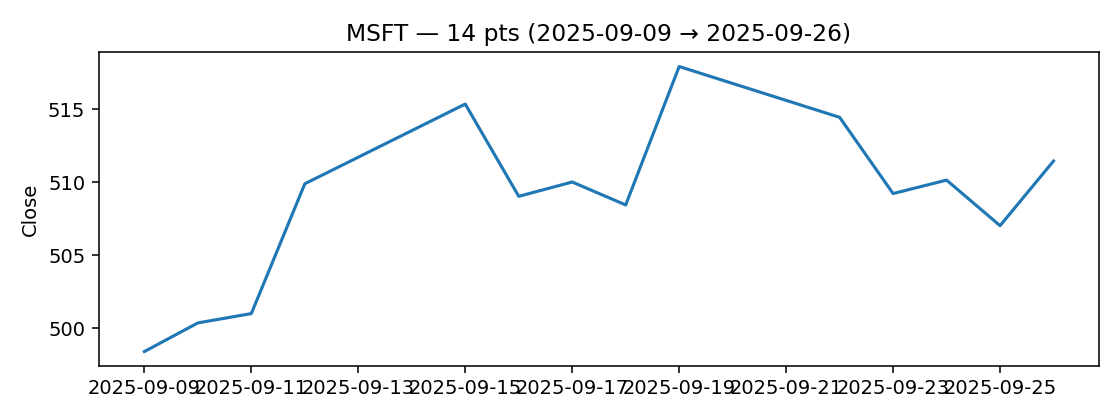
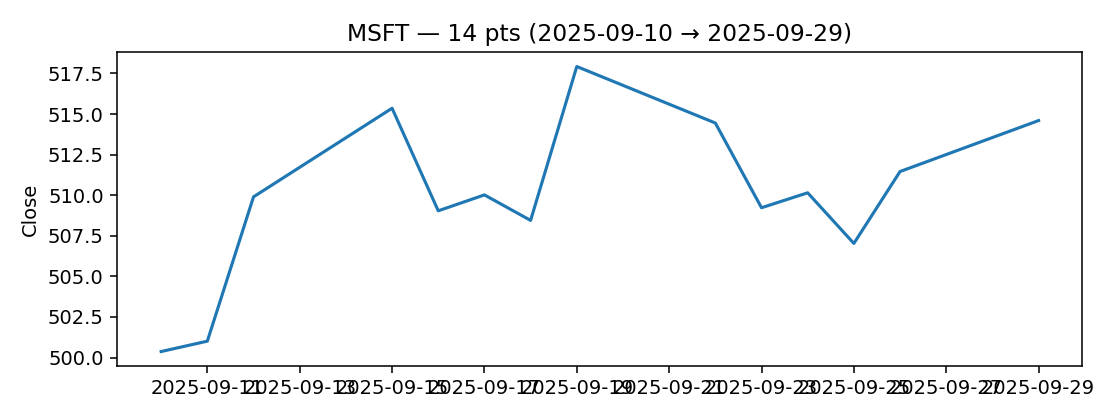
chore: update daily report 2025-09-30 08:09

diff --git a/docs/daily_report.html b/docs/daily_report.html
@@ -108,7 +108,7 @@
   <header>
     <div>
       <h1>Daily Study & News Companion</h1>
-      <div class="sub">2025-09-29 08:14 · TZ: CST</div>
+      <div class="sub">2025-09-30 08:08 · TZ: CST</div>
     </div>
     <button class="btn" id="themeBtn">🌓 Tema</button>
   </header>
@@ -150,11 +150,11 @@
           </div>
           <div class="mkt-body">
             <div class="metrics-row">
-          <div class="kv"><span>Last</span><b>219.78</b></div>
-          <div class="kv"><span>d/d</span><b class="down">-7.75%</b></div>
+          <div class="kv"><span>Last</span><b>222.17</b></div>
+          <div class="kv"><span>d/d</span><b class="down">-3.54%</b></div>
           <div class="kv"><span>Mín</span><b>218.15</b></div>
-          <div class="kv"><span>Máx</span><b>238.24</b></div>
-          <div class="kv"><span>σ</span><b>5.83</b></div>
+          <div class="kv"><span>Máx</span><b>234.05</b></div>
+          <div class="kv"><span>σ</span><b>5.27</b></div>
         </div>
             <div class="chart"><img src="charts/AMZN_close.png" alt="AMZN chart" loading="lazy"/></div>
           </div>
@@ -167,11 +167,11 @@
           </div>
           <div class="mkt-body">
             <div class="metrics-row">
-          <div class="kv"><span>Last</span><b>511.46</b></div>
-          <div class="kv"><span>d/d</span><b class="up">2.62%</b></div>
-          <div class="kv"><span>Mín</span><b>498.41</b></div>
+          <div class="kv"><span>Last</span><b>514.60</b></div>
+          <div class="kv"><span>d/d</span><b class="up">2.84%</b></div>
+          <div class="kv"><span>Mín</span><b>500.37</b></div>
           <div class="kv"><span>Máx</span><b>517.93</b></div>
-          <div class="kv"><span>σ</span><b>5.43</b></div>
+          <div class="kv"><span>σ</span><b>4.79</b></div>
         </div>
             <div class="chart"><img src="charts/MSFT_close.png" alt="MSFT chart" loading="lazy"/></div>
           </div>
@@ -184,11 +184,11 @@
           </div>
           <div class="mkt-body">
             <div class="metrics-row">
-          <div class="kv"><span>Last</span><b>178.19</b></div>
-          <div class="kv"><span>d/d</span><b class="up">4.35%</b></div>
+          <div class="kv"><span>Last</span><b>181.85</b></div>
+          <div class="kv"><span>d/d</span><b class="up">2.55%</b></div>
           <div class="kv"><span>Mín</span><b>170.29</b></div>
           <div class="kv"><span>Máx</span><b>183.61</b></div>
-          <div class="kv"><span>σ</span><b>3.13</b></div>
+          <div class="kv"><span>σ</span><b>2.92</b></div>
         </div>
             <div class="chart"><img src="charts/NVDA_close.png" alt="NVDA chart" loading="lazy"/></div>
           </div>
@@ -201,11 +201,11 @@
           </div>
           <div class="mkt-body">
             <div class="metrics-row">
-          <div class="kv"><span>Last</span><b>440.40</b></div>
-          <div class="kv"><span>d/d</span><b class="up">26.93%</b></div>
-          <div class="kv"><span>Mín</span><b>346.97</b></div>
-          <div class="kv"><span>Máx</span><b>442.79</b></div>
-          <div class="kv"><span>σ</span><b>30.97</b></div>
+          <div class="kv"><span>Last</span><b>443.21</b></div>
+          <div class="kv"><span>d/d</span><b class="up">27.44%</b></div>
+          <div class="kv"><span>Mín</span><b>347.79</b></div>
+          <div class="kv"><span>Máx</span><b>443.21</b></div>
+          <div class="kv"><span>σ</span><b>26.84</b></div>
         </div>
             <div class="chart"><img src="charts/TSLA_close.png" alt="TSLA chart" loading="lazy"/></div>
           </div>
@@ -218,11 +218,11 @@
           </div>
           <div class="mkt-body">
             <div class="metrics-row">
-          <div class="kv"><span>Last</span><b>661.82</b></div>
-          <div class="kv"><span>d/d</span><b class="up">1.77%</b></div>
-          <div class="kv"><span>Mín</span><b>650.33</b></div>
+          <div class="kv"><span>Last</span><b>663.68</b></div>
+          <div class="kv"><span>d/d</span><b class="up">1.76%</b></div>
+          <div class="kv"><span>Mín</span><b>652.21</b></div>
           <div class="kv"><span>Máx</span><b>666.84</b></div>
-          <div class="kv"><span>σ</span><b>4.23</b></div>
+          <div class="kv"><span>σ</span><b>3.46</b></div>
         </div>
             <div class="chart"><img src="charts/^GSPC_close.png" alt="^GSPC chart" loading="lazy"/></div>
           </div>
@@ -250,38 +250,38 @@
             <ul class="news-list">
               <li class="news-item" data-topic="AI">
                 <span class="dot"></span>
-                <a href="https://www.bloomberg.com/news/articles/2025-09-29/netanyahu-discusses-ai-in-private-meeting-with-tech-investors" target="_blank" rel="noreferrer">Netanyahu Discusses AI in Private Meeting With Tech Investors</a>
-                <div class="meta">2025-09-29 12:45 · <span class="src">Annmarie Hordern, Edward Ludlow</span></div>
+                <a href="https://www.bloomberg.com/news/articles/2025-09-30/alphabet-s-ai-strength-fuels-biggest-quarterly-jump-since-2005" target="_blank" rel="noreferrer">Alphabet’s AI Strength Fuels Biggest Quarterly Jump Since 2005</a>
+                <div class="meta">2025-09-30 13:46 · <span class="src">Ryan Vlastelica</span></div>
               </li>
             
               <li class="news-item" data-topic="AI">
                 <span class="dot"></span>
-                <a href="https://www.bloomberg.com/news/articles/2025-09-29/deepseek-debuts-sparse-attention-method-in-next-gen-ai-model" target="_blank" rel="noreferrer">DeepSeek Debuts ‘Sparse Attention’ Method in Next-Gen AI Model</a>
+                <a href="https://www.bloomberg.com/news/articles/2025-09-30/ai-computing-chip-startup-cerebras-systems-raises-1-1-billion" target="_blank" rel="noreferrer">AI Computing, Chip Startup Cerebras Systems Raises $1.1 Billion</a>
+                <div class="meta">2025-09-30 13:00 · <span class="src">Ian King</span></div>
+              </li>
+            
+              <li class="news-item" data-topic="AI">
+                <span class="dot"></span>
+                <a href="https://www.ft.com/content/908dc05b-5fcd-456a-88a3-eba1f77d3ffd" target="_blank" rel="noreferrer">OpenAI’s era-defining money furnace</a>
+                <div class="meta">2025-09-30 11:54 · <span class="src">www.ft.com</span></div>
+              </li>
+            
+              <li class="news-item" data-topic="AI">
+                <span class="dot"></span>
+                <a href="https://www.bloomberg.com/news/articles/2025-09-29/stripe-joins-with-openai-to-allow-purchases-with-chatgpt" target="_blank" rel="noreferrer">Stripe Joins With OpenAI to Allow Etsy Purchases Via ChatGPT</a>
+                <div class="meta">2025-09-29 19:10 · <span class="src">Emily Mason</span></div>
+              </li>
+            
+              <li class="news-item" data-topic="AI">
+                <span class="dot"></span>
+                <a href="https://www.bloomberg.com/news/articles/2025-09-29/deepseek-debuts-sparse-attention-method-in-next-gen-ai-model" target="_blank" rel="noreferrer">DeepSeek Debuts ‘Sparse Attention’ Next-Generation AI Model</a>
                 <div class="meta">2025-09-29 11:54 · <span class="src">Saritha Rai</span></div>
               </li>
             
               <li class="news-item" data-topic="AI">
                 <span class="dot"></span>
-                <a href="https://www.bloomberg.com/news/articles/2025-09-29/ai-investments-blue-owl-xai-deals-solidify-qia-s-500-billion-us-pledge" target="_blank" rel="noreferrer">Blue Owl, xAI Deals Solidify Qatar Fund’s $500 Billion US Pledge</a>
-                <div class="meta">2025-09-29 11:08 · <span class="src">Dinesh Nair, Abeer Abu Omar</span></div>
-              </li>
-            
-              <li class="news-item" data-topic="AI">
-                <span class="dot"></span>
-                <a href="https://www.bloomberg.com/news/newsletters/2025-09-29/openai-floats-the-promise-of-a-more-useful-personal-ai" target="_blank" rel="noreferrer">OpenAI Floats the Promise of a More Useful Personal AI</a>
-                <div class="meta">2025-09-29 11:03 · <span class="src">Austin Carr</span></div>
-              </li>
-            
-              <li class="news-item" data-topic="AI">
-                <span class="dot"></span>
-                <a href="https://www.bloomberg.com/news/articles/2025-09-29/openai-launches-parental-controls-for-chatgpt-after-teen-s-death" target="_blank" rel="noreferrer">OpenAI Launches Parental Controls for ChatGPT After Teen’s Death</a>
-                <div class="meta">2025-09-29 10:08 · <span class="src">Rachel Metz</span></div>
-              </li>
-            
-              <li class="news-item" data-topic="AI">
-                <span class="dot"></span>
-                <a href="https://www.bloomberg.com/news/articles/2025-09-28/magnificent-7-is-passe-this-group-of-ai-stocks-can-replace-it" target="_blank" rel="noreferrer">Magnificent 7 Is Passe. This Group of AI Stocks Can Replace It</a>
-                <div class="meta">2025-09-28 13:00 · <span class="src">Ryan Vlastelica</span></div>
+                <a href="https://www.bloomberg.com/news/articles/2025-09-29/huawei-to-double-output-of-top-ai-chip-as-nvidia-wavers-in-china" target="_blank" rel="noreferrer">Huawei to Double Output of AI Chip as Nvidia Wavers in China</a>
+                <div class="meta">2025-09-29 09:46 · <span class="src">Yuan Gao</span></div>
               </li>
             </ul>
           </div>
@@ -291,38 +291,38 @@
             <ul class="news-list">
               <li class="news-item" data-topic="Fintech">
                 <span class="dot"></span>
-                <a href="https://www.bloomberg.com/news/videos/2025-09-29/fed-s-waller-says-technology-can-deliver-payment-choices" target="_blank" rel="noreferrer">Fed’s Waller Says Technology Can Deliver Payment Choices</a>
-                <div class="meta">2025-09-29 14:02 · <span class="src">www.bloomberg.com</span></div>
+                <a href="https://www.bloomberg.com/news/articles/2025-09-30/santander-head-of-us-real-estate-investment-banking-set-to-exit" target="_blank" rel="noreferrer">Santander Head of US Real Estate Investment Banking Set to Exit</a>
+                <div class="meta">2025-09-30 13:38 · <span class="src">Rodrigo Orihuela, Jorge Zuloaga</span></div>
               </li>
             
               <li class="news-item" data-topic="Fintech">
                 <span class="dot"></span>
-                <a href="https://www.bloomberg.com/news/articles/2025-09-29/ethiopia-bondholders-begin-restricted-talks-to-restructure-debt" target="_blank" rel="noreferrer">Ethiopia, Bondholders Begin Restricted Talks to Restructure Debt</a>
-                <div class="meta">2025-09-29 13:16 · <span class="src">Jorgelina Do Rosario</span></div>
+                <a href="https://www.bloomberg.com/news/articles/2025-09-30/nordea-said-to-plan-srt-tied-to-1-7-billion-of-corporate-loans" target="_blank" rel="noreferrer">Nordea Said to Plan SRT Tied to €1.7 Billion of Loans</a>
+                <div class="meta">2025-09-30 13:14 · <span class="src">Esteban Duarte, Evelina Youcefi</span></div>
               </li>
             
               <li class="news-item" data-topic="Fintech">
                 <span class="dot"></span>
-                <a href="https://www.bloomberg.com/news/videos/2025-09-29/fed-s-hammack-is-concerned-about-inflation-expectations-video" target="_blank" rel="noreferrer">Fed’s Hammack Is Concerned About Inflation Expectations</a>
-                <div class="meta">2025-09-29 12:57 · <span class="src">www.bloomberg.com</span></div>
+                <a href="https://www.bloomberg.com/news/articles/2025-09-30/yuan-trading-surges-to-close-in-on-pound-as-fourth-biggest-currency" target="_blank" rel="noreferrer">Yuan Moves Closer to Replacing Pound as 4th Most-Traded Currency</a>
+                <div class="meta">2025-09-30 13:00 · <span class="src">Greg Ritchie</span></div>
               </li>
             
               <li class="news-item" data-topic="Fintech">
                 <span class="dot"></span>
-                <a href="https://www.bloomberg.com/news/articles/2025-09-29/france-most-likely-to-face-bond-crisis-deutsche-bank-poll-shows" target="_blank" rel="noreferrer">France Most Likely to Face Bond Crisis, Deutsche Bank Poll Shows</a>
-                <div class="meta">2025-09-29 12:48 · <span class="src">Alice Gledhill</span></div>
+                <a href="https://www.bloomberg.com/news/articles/2025-09-30/global-fx-trading-soars-to-9-6-trillion-amid-tariffs-bis-says" target="_blank" rel="noreferrer">Global FX Trading Soars to $9.6 Trillion Amid Tariffs, BIS Says</a>
+                <div class="meta">2025-09-30 13:00 · <span class="src">Greg Ritchie</span></div>
               </li>
             
               <li class="news-item" data-topic="Fintech">
                 <span class="dot"></span>
-                <a href="https://www.bloomberg.com/news/articles/2025-09-29/ecb-s-lane-says-inflation-outlook-is-reasonably-benign" target="_blank" rel="noreferrer">ECB’s Lane Says Inflation Outlook Is ‘Reasonably Benign’</a>
-                <div class="meta">2025-09-29 12:31 · <span class="src">Mark Schroers</span></div>
+                <a href="https://www.bloomberg.com/news/articles/2025-09-30/private-market-blowups-highlight-dangers-for-retail-investors" target="_blank" rel="noreferrer">Private Market Blowups Highlight Perils for Retail Investors</a>
+                <div class="meta">2025-09-30 13:00 · <span class="src">Steven Church, Sabrina Willmer</span></div>
               </li>
             
               <li class="news-item" data-topic="Fintech">
                 <span class="dot"></span>
-                <a href="https://www.bloomberg.com/news/articles/2025-09-29/fed-s-hammack-is-still-worried-about-outlook-for-us-inflation" target="_blank" rel="noreferrer">Fed’s Hammack Is Still Worried About Outlook for US Inflation</a>
-                <div class="meta">2025-09-29 08:48 · <span class="src">Craig Stirling, Jonnelle Marte</span></div>
+                <a href="https://www.bloomberg.com/news/articles/2025-09-30/japanese-rate-trading-surges-684-as-boj-hikes-revive-market" target="_blank" rel="noreferrer">Japanese Rate Trading Surges 684% as BOJ Hikes Revive Market</a>
+                <div class="meta">2025-09-30 13:00 · <span class="src">Greg Ritchie</span></div>
               </li>
             </ul>
           </div>
@@ -332,38 +332,38 @@
             <ul class="news-list">
               <li class="news-item" data-topic="General">
                 <span class="dot"></span>
-                <a href="https://www.bloomberg.com/news/articles/2025-09-29/dimensional-says-sec-intends-to-allow-its-dual-share-class-funds" target="_blank" rel="noreferrer">Dimensional Says SEC Intends to Allow Its Dual Share Class Funds</a>
-                <div class="meta">2025-09-29 13:49 · <span class="src">Emily Graffeo, Katie Greifeld</span></div>
+                <a href="https://www.bloomberg.com/news/articles/2025-09-30/ardian-s-french-retailer-prosol-said-to-draw-interest-from-cd-r" target="_blank" rel="noreferrer">Ardian’s French Retailer Prosol Said to Draw Interest from CD&amp;R</a>
+                <div class="meta">2025-09-30 13:48 · <span class="src">Pamela Barbaglia, Swetha Gopinath</span></div>
               </li>
             
               <li class="news-item" data-topic="General">
                 <span class="dot"></span>
-                <a href="https://www.bloomberg.com/news/articles/2025-09-29/canadian-gas-hits-sub-zero-as-lng-plant-hiccups-keep-supply-high" target="_blank" rel="noreferrer">Canadian Gas Hits Sub-Zero as LNG Plant Hiccups Keep Supply High</a>
-                <div class="meta">2025-09-29 13:38 · <span class="src">Robert Tuttle</span></div>
+                <a href="https://www.bloomberg.com/news/articles/2025-09-30/stocks-steady-as-shutdown-looms-coreweave-soars-on-deal-with-meta" target="_blank" rel="noreferrer">Stocks Steady as Shutdown Looms; CoreWeave Soars on Deal With Meta</a>
+                <div class="meta">2025-09-30 13:40 · <span class="src">Natalia Kniazhevich</span></div>
               </li>
             
               <li class="news-item" data-topic="General">
                 <span class="dot"></span>
-                <a href="https://www.bloomberg.com/news/articles/2025-09-29/flood-focused-neptune-s-ipo-joins-boom-in-niche-insurer-debuts" target="_blank" rel="noreferrer">Flood-Focused Neptune’s IPO Joins Boom in Niche Insurer Debuts</a>
-                <div class="meta">2025-09-29 13:38 · <span class="src">Anthony Hughes</span></div>
+                <a href="https://www.bloomberg.com/news/articles/2025-09-30/kuwait-egypt-get-over-29-billion-demand-for-dollar-bond-offers" target="_blank" rel="noreferrer">Kuwait and Egypt Get Over $29 Billion Demand for Dollar Bond Offers</a>
+                <div class="meta">2025-09-30 12:22 · <span class="src">Mirette Magdy, Srinivasan Sivabalan</span></div>
               </li>
             
               <li class="news-item" data-topic="General">
                 <span class="dot"></span>
-                <a href="https://www.bloomberg.com/news/articles/2025-09-29/beyond-meat-bynd-stock-sinks-on-convertible-debt-writedown-proposal" target="_blank" rel="noreferrer">Beyond Meat Stock Sinks to All-Time Low on Debt Swap Plan</a>
-                <div class="meta">2025-09-29 13:23 · <span class="src">Giulia Morpurgo, Dorothy Ma</span></div>
+                <a href="https://www.bloomberg.com/news/articles/2025-09-30/kuwait-starts-its-first-sale-of-dollar-bonds-in-eight-years" target="_blank" rel="noreferrer">Bids Top $27.7 billion in Kuwait’s First Eurobond Since 2017</a>
+                <div class="meta">2025-09-30 05:36 · <span class="src">Olga Voitova</span></div>
               </li>
             
               <li class="news-item" data-topic="General">
                 <span class="dot"></span>
-                <a href="https://www.bloomberg.com/news/articles/2025-09-29/ucb-shares-reach-fresh-record-after-rival-moonlake-s-trial-data" target="_blank" rel="noreferrer">UCB Soars to Record as Rival MoonLake Crashes on Trial Data</a>
-                <div class="meta">2025-09-29 08:50 · <span class="src">Lisa Pham</span></div>
+                <a href="https://www.bloomberg.com/news/articles/2025-09-29/stock-market-today-dow-s-p-live-updates" target="_blank" rel="noreferrer">Stocks Slip on Shutdown Worries; Oil Prices Drop: Markets Wrap</a>
+                <div class="meta">2025-09-29 22:35 · <span class="src">Rheaa Rao</span></div>
               </li>
             
               <li class="news-item" data-topic="General">
                 <span class="dot"></span>
-                <a href="https://www.bloomberg.com/news/articles/2025-09-28/oil-drops-as-opec-seen-increasing-output-again-markets-wrap" target="_blank" rel="noreferrer">US Stocks Climb Ahead of Key Jobs Data This Week: Markets Wrap</a>
-                <div class="meta">2025-09-28 22:34 · <span class="src">Rheaa Rao</span></div>
+                <a href="https://www.bloomberg.com/news/videos/2025-09-29/ceo-s-discuss-the-future-of-global-infrastructure-video" target="_blank" rel="noreferrer">Brookfield, Macquarie and GIP on Global Infrastructure</a>
+                <div class="meta">2025-09-29 14:38 · <span class="src">www.bloomberg.com</span></div>
               </li>
             </ul>
           </div>
@@ -373,38 +373,38 @@
             <ul class="news-list">
               <li class="news-item" data-topic="Machine Learning">
                 <span class="dot"></span>
-                <a href="https://www.bloomberg.com/news/articles/2025-09-29/treasuries-hold-gains-amid-oil-price-slump-with-month-end-ahead" target="_blank" rel="noreferrer">Treasuries Hold Gains Amid Oil Price Slump With Month-End Ahead</a>
-                <div class="meta">2025-09-29 13:11 · <span class="src">Elizabeth Stanton</span></div>
+                <a href="https://www.bloomberg.com/news/articles/2025-09-30/china-s-september-home-sales-steady-in-sign-of-stabilization" target="_blank" rel="noreferrer">China’s September Home Sales Steady in Sign of Stabilization</a>
+                <div class="meta">2025-09-30 11:25 · <span class="src">Charlie Zhu, Emma Dong</span></div>
               </li>
             
               <li class="news-item" data-topic="Machine Learning">
                 <span class="dot"></span>
-                <a href="https://www.bloomberg.com/news/articles/2025-09-29/expectations-for-trump-summit-low-before-shutdown-deadline" target="_blank" rel="noreferrer">Trump to Face Off With Democrats Ahead of Shutdown Deadline</a>
-                <div class="meta">2025-09-29 10:00 · <span class="src">Erik Wasson</span></div>
+                <a href="https://www.bloomberg.com/news/newsletters/2025-09-30/china-s-chip-rally-shows-ai-froth-spilling-eastward" target="_blank" rel="noreferrer">China’s Chip Rally Shows AI Froth Spilling Eastward</a>
+                <div class="meta">2025-09-30 11:01 · <span class="src">Yuan Gao, Vlad Savov</span></div>
               </li>
             
               <li class="news-item" data-topic="Machine Learning">
                 <span class="dot"></span>
-                <a href="https://www.bloomberg.com/news/articles/2025-09-29/sec-chief-vows-to-fast-track-proposal-to-end-quarterly-reports" target="_blank" rel="noreferrer">SEC Head Vows to Fast-Track Plan to End Quarterly Reports</a>
-                <div class="meta">2025-09-29 09:38 · <span class="src">Jennifer Surane</span></div>
+                <a href="https://www.bloomberg.com/news/articles/2025-09-30/chinese-hackers-breach-foreign-ministers-email-servers" target="_blank" rel="noreferrer">Chinese Hackers Breached Foreign Ministers’ Email Servers</a>
+                <div class="meta">2025-09-30 10:00 · <span class="src">Emily Forgash</span></div>
               </li>
             
               <li class="news-item" data-topic="Machine Learning">
                 <span class="dot"></span>
-                <a href="https://www.bloomberg.com/news/articles/2025-09-29/kkr-invests-in-stirling-square-backed-software-firm-infobric" target="_blank" rel="noreferrer">KKR Invests in Stirling Square-Backed Software Firm Infobric</a>
-                <div class="meta">2025-09-29 04:00 · <span class="src">Swetha Gopinath</span></div>
+                <a href="https://www.bloomberg.com/news/articles/2025-09-30/israeli-stocks-rise-to-record-after-trump-unveils-gaza-plan" target="_blank" rel="noreferrer">Israeli Stocks Rise to Record After Trump Unveils Gaza Plan</a>
+                <div class="meta">2025-09-30 09:47 · <span class="src">Srinivasan Sivabalan</span></div>
               </li>
             
               <li class="news-item" data-topic="Machine Learning">
                 <span class="dot"></span>
-                <a href="https://www.ft.com/content/f9f9e796-b967-45f0-9d8d-78cd8c880073" target="_blank" rel="noreferrer">Wall Street regulator vows light touch and end to quarterly reporting</a>
-                <div class="meta">2025-09-29 04:00 · <span class="src">www.ft.com</span></div>
+                <a href="https://www.bloomberg.com/news/articles/2025-09-30/zijin-gold-miners-stage-comeback-as-equity-sales-surge-to-record-high" target="_blank" rel="noreferrer">Gold Miners Stage Comeback as Share Sales Surge to Record High</a>
+                <div class="meta">2025-09-30 08:35 · <span class="src">Yvonne Yue Li, Sybilla Gross</span></div>
               </li>
             
               <li class="news-item" data-topic="Machine Learning">
                 <span class="dot"></span>
-                <a href="https://www.ft.com/content/9a4bc694-24a1-441f-877f-c3cb8c6d0edd" target="_blank" rel="noreferrer">The senior citizen estate agents that are among the world’s cheapest</a>
-                <div class="meta">2025-09-28 04:00 · <span class="src">www.ft.com</span></div>
+                <a href="https://www.bloomberg.com/news/videos/2025-09-29/world-bank-group-s-ajay-banja-on-mission-300-video" target="_blank" rel="noreferrer">World Bank, African Development Bank discuss Mission 300</a>
+                <div class="meta">2025-09-29 14:44 · <span class="src">www.bloomberg.com</span></div>
               </li>
             </ul>
           </div>
@@ -414,7 +414,7 @@
     </main>
   </div>
 
-  <footer>Generado localmente · 2025-09-29 08:14</footer>
+  <footer>Generado localmente · 2025-09-30 08:08</footer>
 
   <script>
     'use strict';
